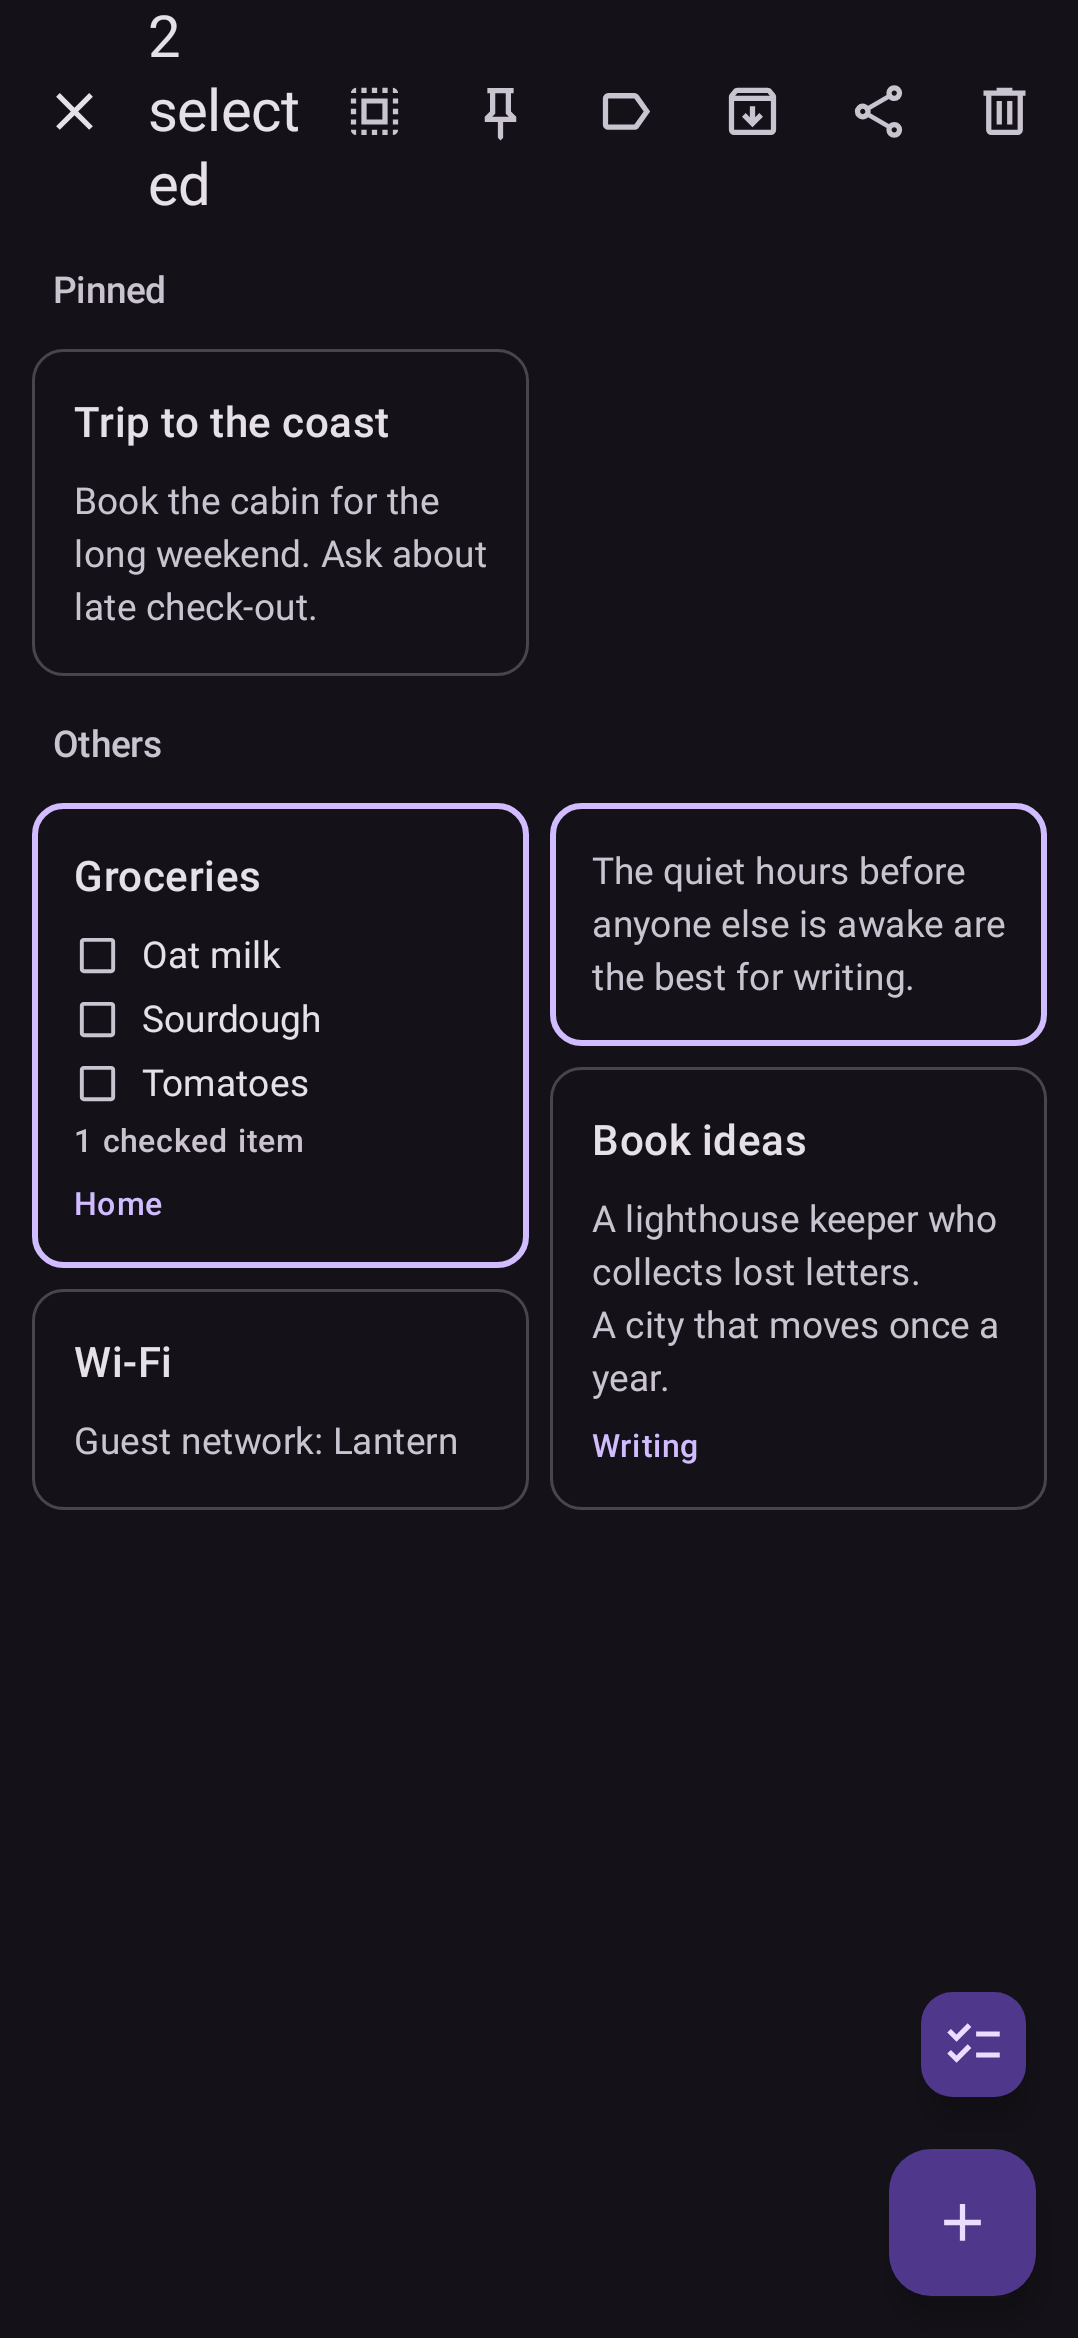
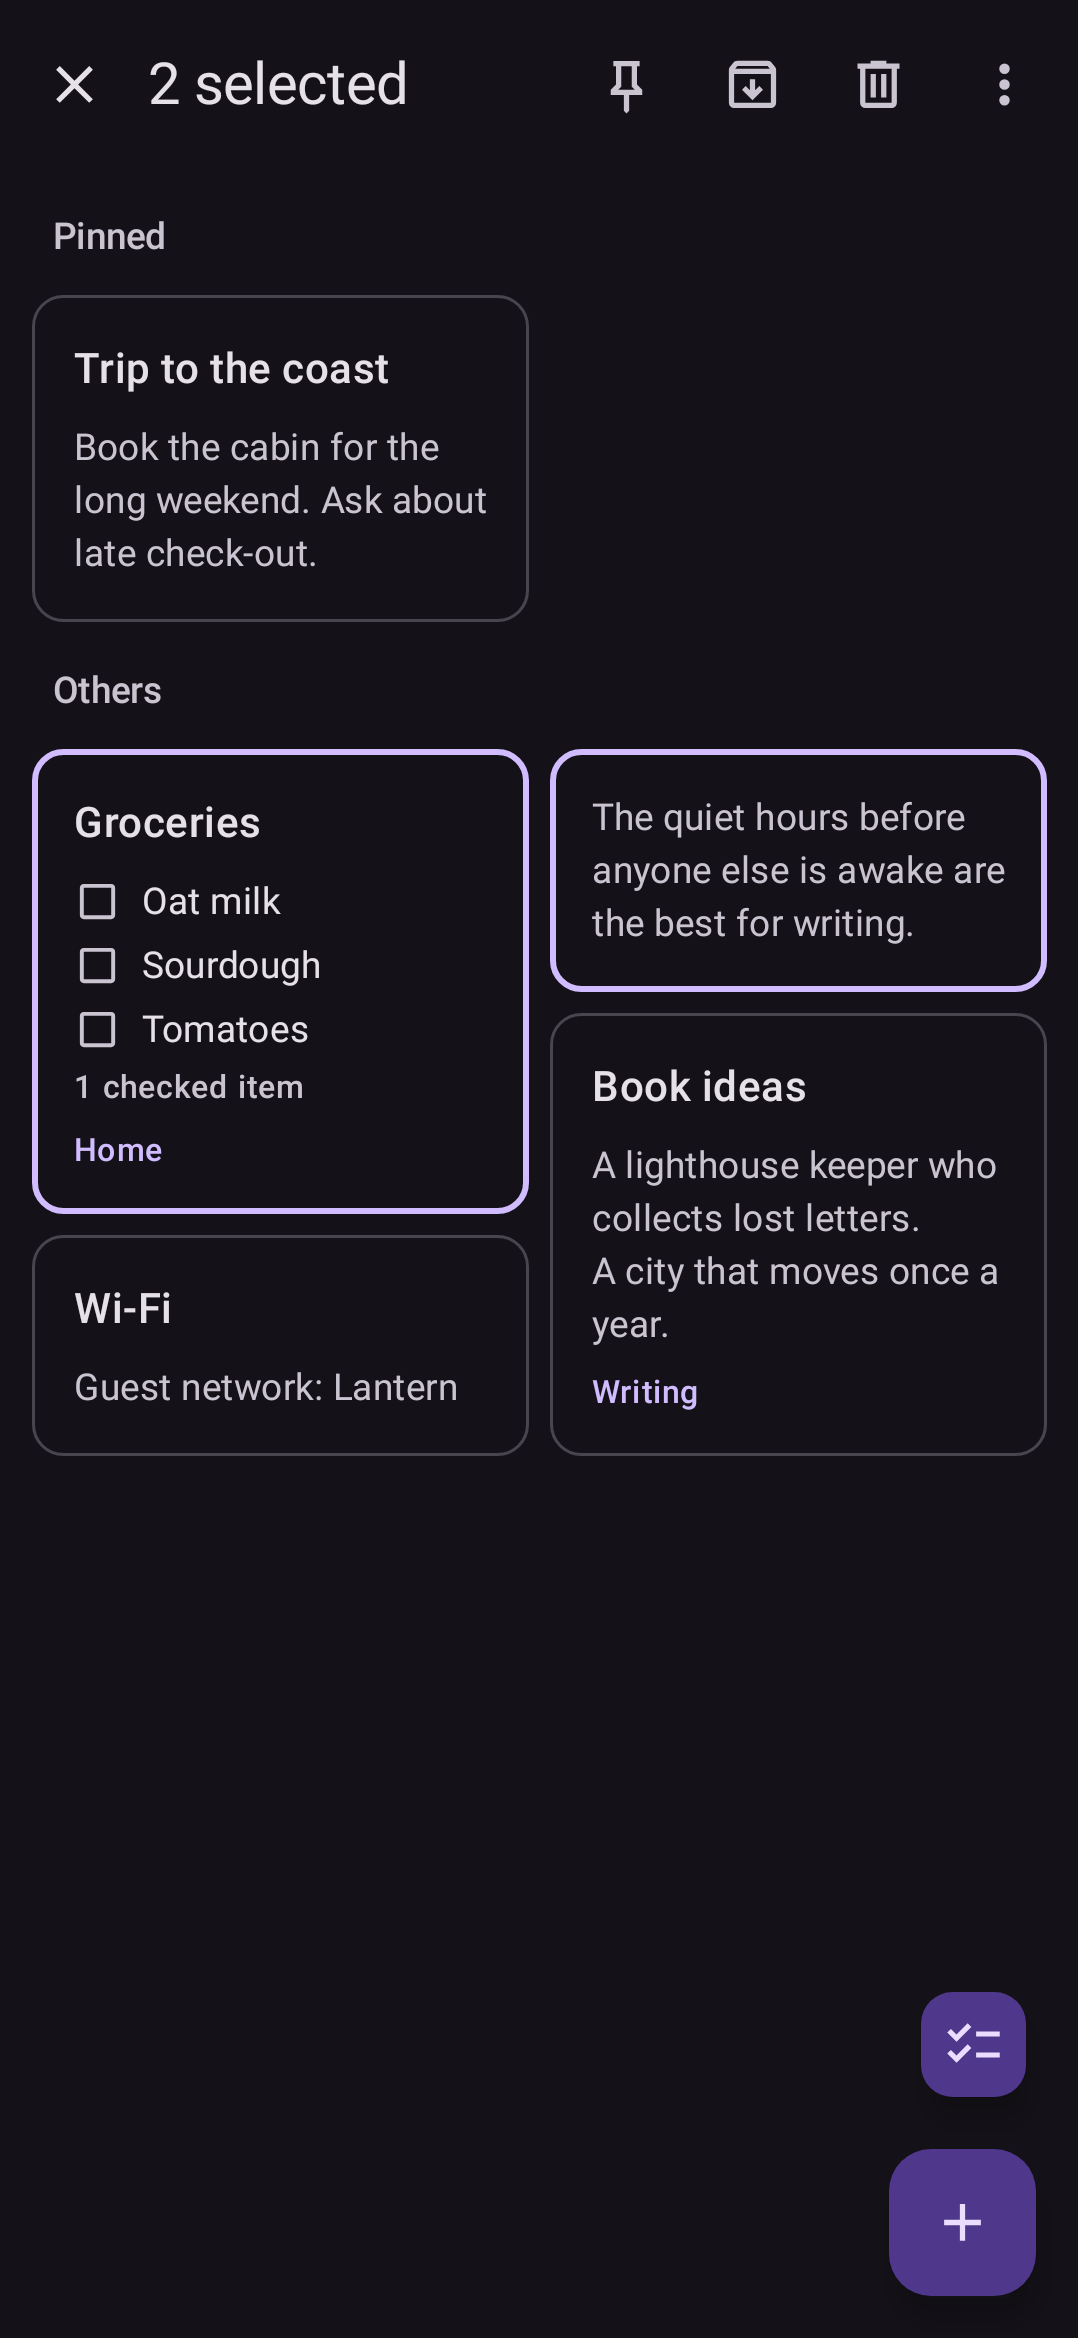
Notes 0.1.2: selection bar title no longer wraps (#34)
Six actions left "2 selected" no room at phone width, so it wrapped
as "2 / select / ed". Pin, archive and delete stay as icons; select
all, labels and share move to the menu.

diff --git a/apps/notes/src/main/kotlin/io/github/michaelmassoni/tessera/notes/ui/NotesApp.kt b/apps/notes/src/main/kotlin/io/github/michaelmassoni/tessera/notes/ui/NotesApp.kt
@@ -24,6 +24,8 @@ import androidx.compose.foundation.verticalScroll
 import androidx.compose.material3.AlertDialog
 import androidx.compose.material3.Checkbox
 import androidx.compose.material3.DrawerValue
+import androidx.compose.material3.DropdownMenu
+import androidx.compose.material3.DropdownMenuItem
 import androidx.compose.material3.ExperimentalMaterial3Api
 import androidx.compose.material3.FloatingActionButton
 import androidx.compose.material3.HorizontalDivider
@@ -64,6 +66,7 @@ import androidx.compose.ui.platform.LocalResources
 import androidx.compose.ui.res.painterResource
 import androidx.compose.ui.res.pluralStringResource
 import androidx.compose.ui.res.stringResource
+import androidx.compose.ui.text.style.TextOverflow
 import androidx.compose.ui.unit.dp
 import io.github.michaelmassoni.tessera.notes.EditorState
 import io.github.michaelmassoni.tessera.notes.ListState
@@ -425,15 +428,32 @@ private fun SelectionBar(
                 Icon(painterResource(DesignR.drawable.ic_close), contentDescription = stringResource(R.string.action_close))
             }
         },
-        title = { Text(pluralStringResource(R.plurals.selected_count, count, count)) },
+        title = { Text(pluralStringResource(R.plurals.selected_count, count, count), maxLines = 1, overflow = TextOverflow.Ellipsis) },
+        // The common actions as icons; the rest in a menu, so the title keeps its room at phone width.
         actions = {
             val action: @Composable (Int, Int, () -> Unit) -> Unit = { icon, label, onClick ->
                 IconButton(onClick = onClick) { Icon(painterResource(icon), contentDescription = stringResource(label)) }
             }
-            action(DesignR.drawable.ic_select_all, R.string.action_select_all, actions::selectAll)
+            var menu by remember { mutableStateOf(false) }
+            val more: @Composable (List<Pair<Int, () -> Unit>>) -> Unit = { items ->
+                Box {
+                    IconButton(onClick = { menu = true }) {
+                        Icon(painterResource(DesignR.drawable.ic_more_vert), contentDescription = stringResource(R.string.action_more))
+                    }
+                    DropdownMenu(expanded = menu, onDismissRequest = { menu = false }) {
+                        items.forEach { (label, onClick) ->
+                            DropdownMenuItem(text = { Text(stringResource(label)) }, onClick = {
+                                menu = false
+                                onClick()
+                            })
+                        }
+                    }
+                }
+            }
             if (state.view == NoteView.Trash) {
                 action(DesignR.drawable.ic_restore_from_trash, R.string.action_restore) { actions.restore(state.selection) }
                 action(DesignR.drawable.ic_delete_forever, R.string.action_delete_forever, onDeleteForever)
+                more(listOf(R.string.action_select_all to actions::selectAll))
             } else {
                 val allPinned = state.notes.filter { it.id in state.selection }.all { it.pinned }
                 if (state.view != NoteView.Archive) {
@@ -443,14 +463,19 @@ private fun SelectionBar(
                         actions::pinSelection,
                     )
                 }
-                action(DesignR.drawable.ic_label, R.string.action_labels, onLabelSelection)
                 action(
                     if (state.view == NoteView.Archive) DesignR.drawable.ic_unarchive else DesignR.drawable.ic_archive,
                     if (state.view == NoteView.Archive) R.string.action_unarchive else R.string.action_archive,
                     actions::archiveSelection,
                 )
-                action(DesignR.drawable.ic_share, R.string.action_share, actions::shareSelection)
                 action(DesignR.drawable.ic_delete, R.string.action_delete, actions::trashSelection)
+                more(
+                    listOf(
+                        R.string.action_select_all to actions::selectAll,
+                        R.string.action_labels to onLabelSelection,
+                        R.string.action_share to actions::shareSelection,
+                    ),
+                )
             }
         },
     )

diff --git a/docs/notes.md b/docs/notes.md
@@ -26,8 +26,9 @@ and no network.
   - Deleted notes go to Trash and are removed permanently after 7 days. They can be restored or
     deleted for good from there.
 - **New note:** a FAB creates a text note. A second, smaller FAB creates a checklist.
-- **Selection:** long-press starts selection mode, with pin, archive, label, delete and share
-  actions in a contextual top bar.
+- **Selection:** long-press starts selection mode. The contextual top bar shows pin, archive and
+  delete as icons, and select all, labels and share in its menu, so the count stays on one line
+  at phone width.
 
 ### Editor
 
